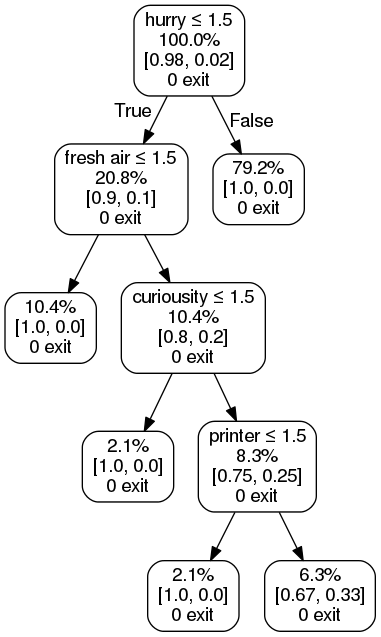
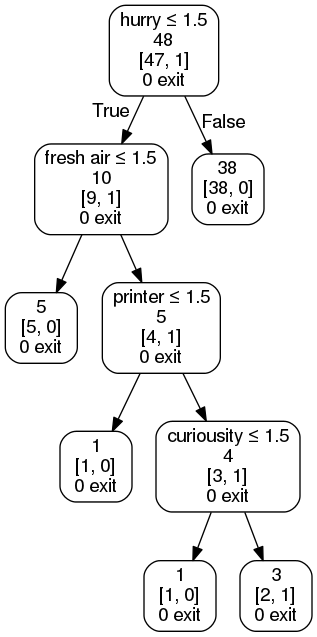
udpate graph

diff --git a/server/server.py b/server/server.py
@@ -81,7 +81,7 @@ def drawDecisionTree(dt, filename, featureNames, classNames):
     dot_data = StringIO()
     print featureNames
     print classNames
-    tree.export_graphviz(dt, out_file=dot_data, feature_names=featureNames, class_names=classNames, rounded=True, special_characters=True, label=None, proportion=True, impurity=False)
+    tree.export_graphviz(dt, out_file=dot_data, feature_names=featureNames, class_names=classNames, rounded=True, special_characters=True, label=None, impurity=False)
     graph = pydot.graph_from_dot_data(dot_data.getvalue())
     graph.write_png(filename) 
 
